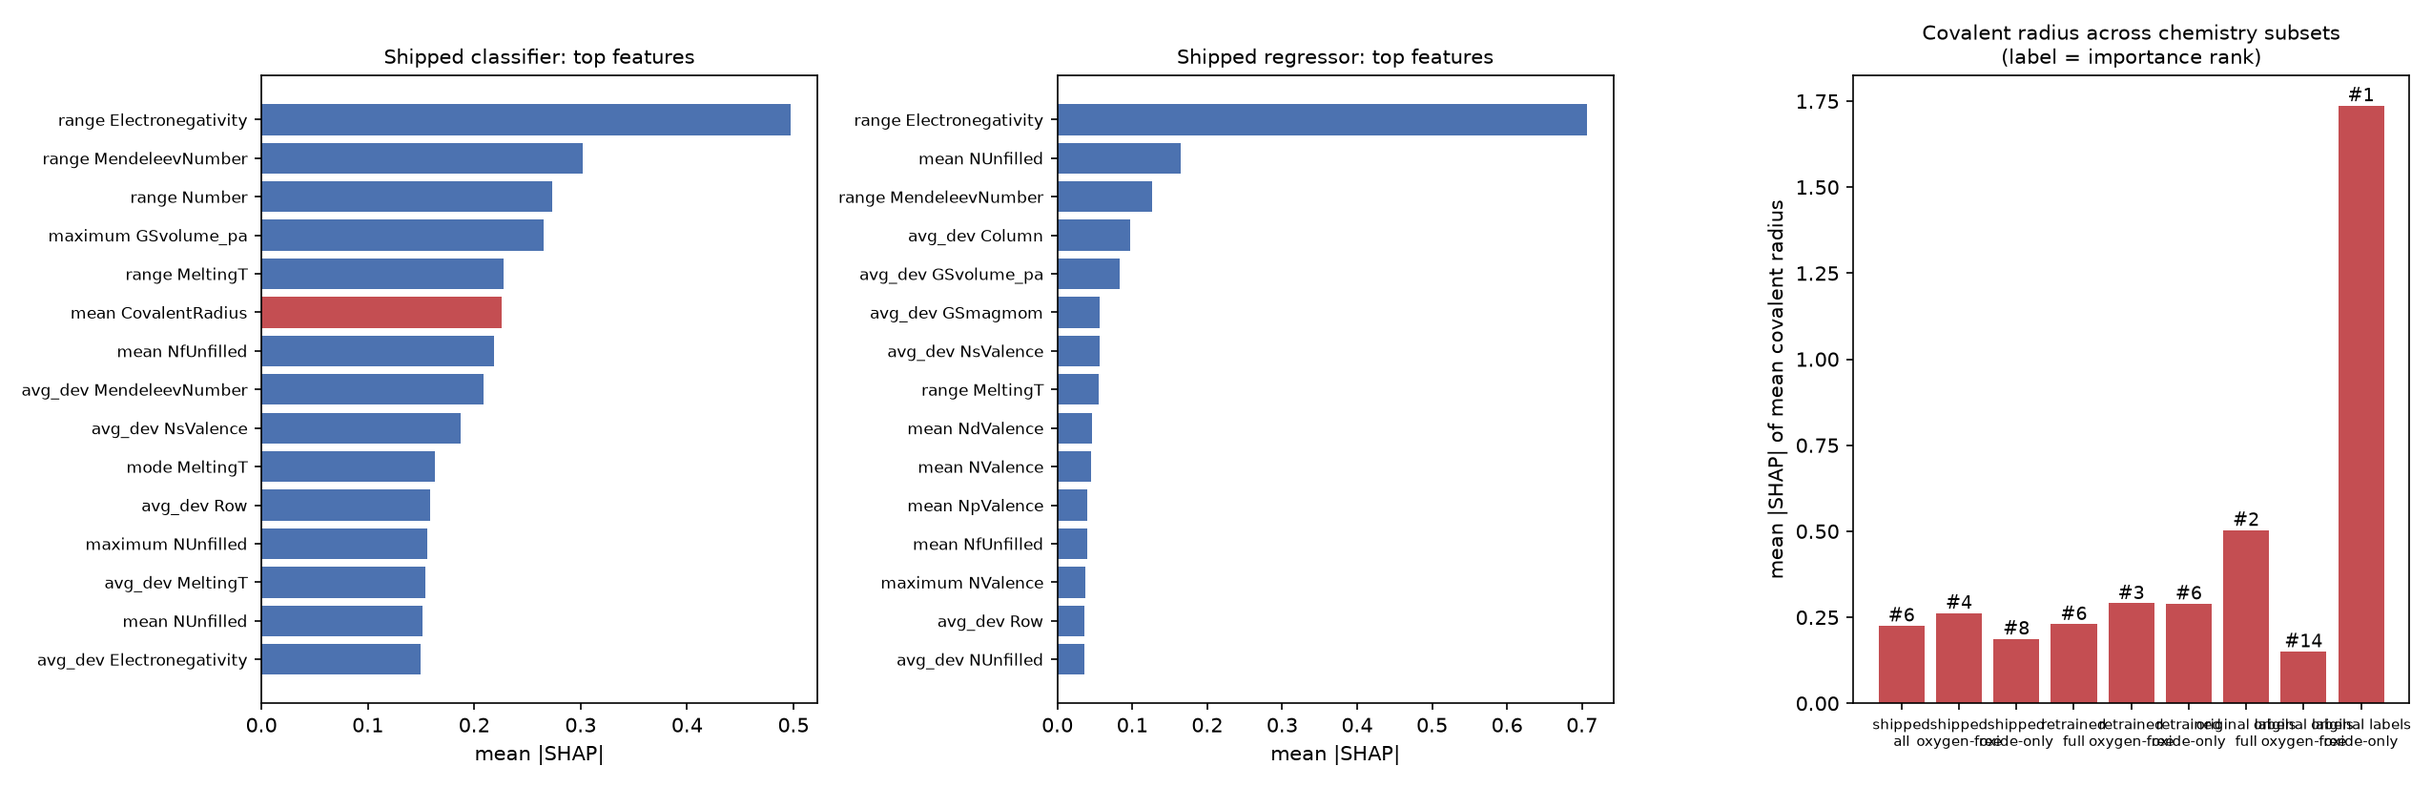
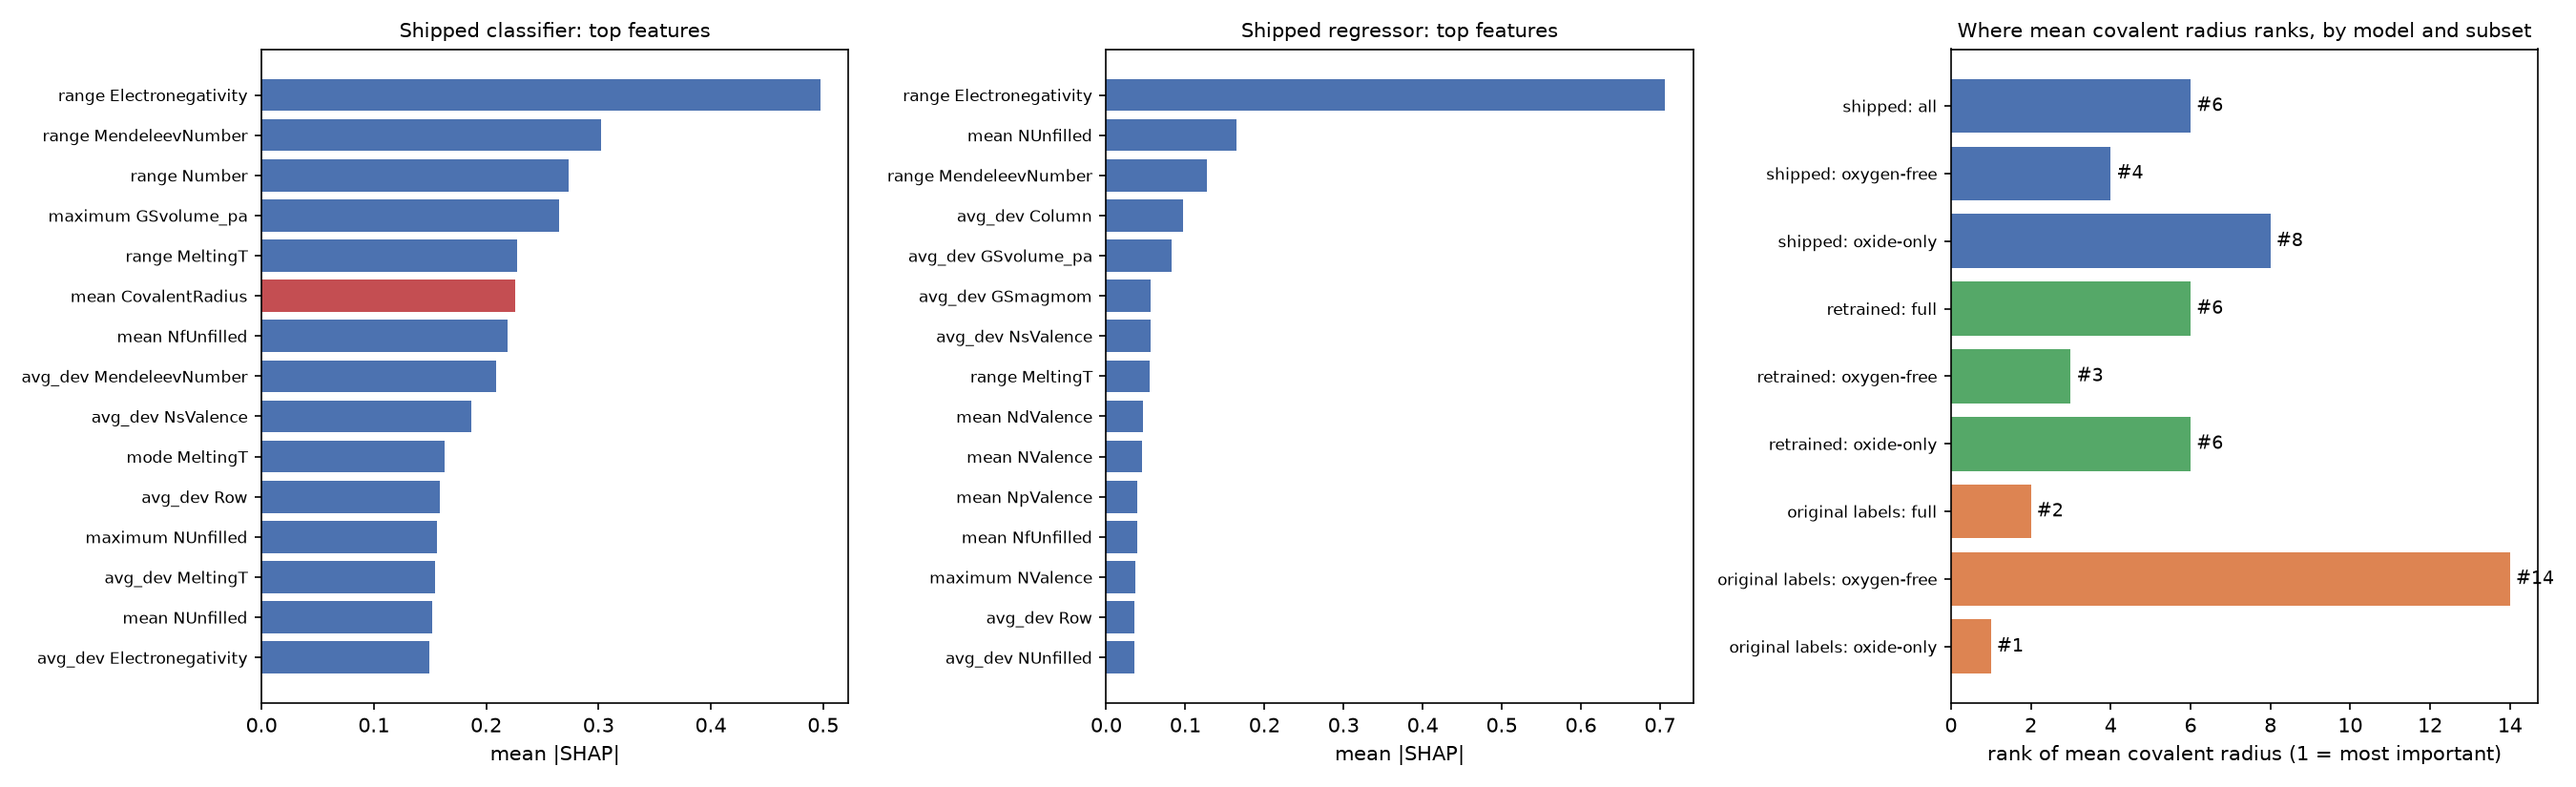
Embed SHAP figures in the report and README; carry over original GNN results
- explain_funnel figure: replace the unreadable nine-bar panel with a rank plot
  (only ranks are comparable across models) and fix a truncated axis label
- report: Figure 1 (original-study SHAP, section 1.3) and Figure 2 (funnel SHAP,
  section 7); add the original report's GNN Table II and its own reading of it
- README: funnel SHAP figure in Explainability, original-study figure in
  Reproducing the original study
- provenance now points at the final explain run; earlier explain runs are
  tagged superseded in W&B

diff --git a/path_a_classical/explain_funnel.py b/path_a_classical/explain_funnel.py
@@ -63,6 +63,7 @@ OUT_PLOT = OUTPUT_DIR / "explain_funnel.png"
 
 TARGET_FEATURE = "MagpieData mean CovalentRadius"
 TOP_N = 15
+GROUP_COLORS = {"original labels": "#dd8452", "retrained": "#55a868", "shipped": "#4c72b0"}
 
 
 def oxygen_fraction(formula: str) -> float:
@@ -127,7 +128,7 @@ def retrain_and_explain(X, y, feature_cols):
 
 
 def plot_summary(clf_stats, reg_stats, regimes):
-    fig, axes = plt.subplots(1, 3, figsize=(17, 5.5))
+    fig, axes = plt.subplots(1, 3, figsize=(18, 5.5))
 
     for ax, stats, title in [
         (axes[0], clf_stats, "Shipped classifier: top features"),
@@ -140,16 +141,18 @@ def plot_summary(clf_stats, reg_stats, regimes):
         ax.set_title(title, fontsize=10)
         ax.tick_params(axis="y", labelsize=8)
 
-    names = list(regimes)
+    # Rank (not mean |SHAP|) is compared across models: |SHAP| scales differ between
+    # models, so only the rank is meaningful across the regimes.
+    names = list(regimes)[::-1]
+    ranks = [regimes[n]["rank"] for n in names]
     ax = axes[2]
-    ax.bar(range(len(names)), [regimes[n]["mean_abs_shap"] for n in names], color="#c44e52")
-    for i, n in enumerate(names):
-        ax.annotate(f"#{regimes[n]['rank']}", (i, regimes[n]["mean_abs_shap"]),
-                    ha="center", va="bottom", fontsize=9)
-    ax.set_xticks(range(len(names)))
-    ax.set_xticklabels([n.replace(" | ", "\n") for n in names], fontsize=7)
-    ax.set_ylabel("mean |SHAP| of mean covalent radius")
-    ax.set_title("Covalent radius across chemistry subsets\n(label = importance rank)", fontsize=10)
+    ax.barh(range(len(names)), ranks, color=[GROUP_COLORS[n.split(" | ")[0]] for n in names])
+    ax.set_yticks(range(len(names)))
+    ax.set_yticklabels([n.replace(" | ", ": ") for n in names], fontsize=8)
+    for i, r in enumerate(ranks):
+        ax.annotate(f"#{r}", (r, i), xytext=(3, 0), textcoords="offset points", va="center", fontsize=9)
+    ax.set_xlabel("rank of mean covalent radius (1 = most important)")
+    ax.set_title("Where mean covalent radius ranks, by model and subset", fontsize=10)
 
     fig.tight_layout()
     fig.savefig(OUT_PLOT, dpi=150)

diff --git a/PROJECT_REPORT.md b/PROJECT_REPORT.md
@@ -43,6 +43,10 @@ The headline result reproduces closely (ROC-AUC within 0.003; test-set support w
 
 **Interpretation as reported.** SHAP on this model gave three design rules: (1) *low mean covalent radius* was the top predictor, read as smaller atoms → stiffer lattices → higher phonon frequencies, consistent with BCS theory; (2) a *high range of electronegativity* was the next strongest, read as superconductors being chemically contrasting compounds rather than simple alloys; (3) *low mean d-valence electron count* was strongly predictive, read as high d-electron counts being associated with magnetism. The reproduction agrees on the broad picture: 13 of the report's 20 Figure 1 features appear in the reproduced top 20 (13–14 across repeated runs), with range of electronegativity, mean covalent radius, mean melting temperature, mean electronegativity and mean f-orbital vacancy among the top five. How well each *rule* holds up under further testing is the subject of §7.
 
+![SHAP top-20 features of the original-methodology classifier](outputs/original_study_shap.png)
+
+*Figure 1. Mean |SHAP| of the top 20 features of the original-methodology classifier (random split, unlabeled-as-negative labels), reproduced by `reproduce_original_study.py`. The same feature families lead as in Figure 1 of the Final Report; the exact order differs slightly.*
+
 **Original future work.** The report proposed (a) screening millions of hypothetical materials in OQMD with the XGBoost model, (b) a hybrid pipeline in which XGBoost filters formulas and a GNN then analyzes the 3D structure of the shortlist, and (c) pre-training the GNN on formation energy before fine-tuning. This revision realizes (a) in spirit by screening the ~62,000-material Materials Project pool (§4.4; OQMD was not used), tests (c) partially with frozen CHGNet embeddings (§5.2), and finds no support for the GNN stage in (b) (§5).
 
 *Reproducibility notes.* A fresh rebuild from the raw CSVs featurizes four noble-gas formulas (Ar, He, HeSiO₂, Ne) that the original featurization run had dropped, giving 78,482 rows rather than 78,478; this adds four negatives to the screening pool and does not change the shortlist or any funnel metric. Models refit on this dataset use multithreaded XGBoost and are not bit-reproducible: ROC-AUC and accuracy vary in the third decimal between runs, and lower-ranked SHAP positions can swap between near-tied features. Quantities quoted from such refits below carry that tolerance; the shipped funnel models and their outputs are reproduced exactly.
@@ -127,6 +131,8 @@ This path does not appear in the deployed pipeline. It is summarized here becaus
 ### 5.1 What was built
 A Crystal Graph Convolutional Neural Network (CGCNN; Xie & Grossman, *Phys. Rev. Lett.* 2018), where atoms are nodes (one-hot atomic number) and bonds are edges (Gaussian-expanded distance, 5 Å cutoff), trained for binary superconductor classification, interpreted post-hoc with GNNExplainer.
 
+**As originally reported.** Table II of the Final Report gave ROC-AUC 0.9412 and accuracy 0.94, with non-superconductor precision/recall 0.99/0.95 but superconductor precision of only 0.04 at recall 0.86 (F1 0.08). The report itself read this as a useful pattern-recognition tool but an inefficient screening tool, and read a GNNExplainer run on YBCO — highest importance on Cu and O, almost none on Y and Ba — as validation of Cu–O-plane physics. The subsections below test both readings.
+
 ### 5.2 What was wrong, and what it revealed once fixed
 
 **The reported result was not reproducible.** The GNNExplainer script imported the wrong model class entirely (a never-trained `CGCNN`, when the actual checkpoint was a different, four-layer `ImprovedCGCNN` architecture) and called it with an incompatible signature. GNNExplainer had never successfully run; the "Cu-O plane" figure in the original report was labeled "(Simulated)".
@@ -161,7 +167,7 @@ The composition funnel in this report is a legitimate but considerably shallower
 
 ## 7. Explainability: What Held Up and What Didn't
 
-**SHAP (Path A).** Two different classifiers have been explained, and they do not agree, so every result below is labeled by the model it came from. The *original-methodology* classifier uses unlabeled-as-negative labels (§1.3); the *shipped* funnel classifier uses confirmed labels (§3). Both are examined by `path_a_classical/explain_funnel.py` (W&B run `58lszl8z`), which retrains on the original labels for the first group of rows below and explains the shipped models directly for the second.
+**SHAP (Path A).** Two different classifiers have been explained, and they do not agree, so every result below is labeled by the model it came from. The *original-methodology* classifier uses unlabeled-as-negative labels (§1.3); the *shipped* funnel classifier uses confirmed labels (§3). Both are examined by `path_a_classical/explain_funnel.py` (W&B run `3ykf1x5d`), which retrains on the original labels for the first group of rows below and explains the shipped models directly for the second.
 
 The original report's top design rule was "low mean covalent radius predicts superconductivity, via BCS phonon stiffness". Testing whether that feature is oxide-scoped (oxygen has a very small covalent radius, and cuprates dominate the positives):
 
@@ -177,6 +183,10 @@ The original report's top design rule was "low mean covalent radius predicts sup
 | retrained on oxide-only | 6 | +0.88 |
 
 (Every row is reproduced by `explain_funnel.py`; ranges reflect run-to-run variation of the refit models (§1.3), while the shipped-model rows are exactly reproducible. The "original labels" rows and the "retrained" rows fit a fresh classifier on each subset and explain its held-out split; the "shipped" rows slice the SHAP values of the deployed classifier without retraining.)
+
+![SHAP explanations of the shipped screening funnel](outputs/explain_funnel.png)
+
+*Figure 2. Left and centre: mean |SHAP| of the top 15 features of the shipped classifier and regressor, with mean covalent radius highlighted in the classifier. Right: the rank of mean covalent radius by model and chemistry subset (blue: shipped classifier, SHAP sliced by subset; green: classifiers retrained on each subset of the confirmed-label data; orange: classifiers retrained on the original labels). Only ranks are compared across models, because |SHAP| scales differ between them.*
 
 - **The oxide-scoping finding does not carry over to the shipped model.** With the original labels the feature collapsed from #2 to #13–14 without oxygen. On the shipped model it is #6 overall and, if anything, *more* important outside oxides (#4 and #3) than inside them (#8 and #6). The earlier result was a property of that label design (negatives = generic stable materials), not a general property of the feature.
 - **The sign is consistently opposite to the original claim.** In every row above, a *higher* mean covalent radius pushes toward "superconductor" (positive correlation), not lower as the BCS-stiffness narrative requires. The narrative is unsupported by either model. Caveat: a Pearson correlation is a crude summary of a possibly non-monotonic SHAP dependence; the feature also correlates −0.66 with oxygen fraction, while oxygen fraction alone separates the classes only weakly (ROC-AUC 0.59).

diff --git a/README.md b/README.md
@@ -100,6 +100,10 @@ rule" (low mean covalent radius => superconductor):
 python path_a_classical/explain_funnel.py
 ```
 
+![SHAP explanations of the shipped funnel: top features of the classifier and regressor, and where mean covalent radius ranks by model and subset](outputs/explain_funnel.png)
+
+*Left/centre: top SHAP features of the shipped classifier and regressor. Right: rank of mean covalent radius under the original labels (orange), retrained on confirmed labels (green) and in the shipped model (blue).*
+
 Outputs: `outputs/explain_funnel.json`, `explain_funnel_{classifier,regressor}_shap.csv`,
 `explain_funnel.png`. Findings on the shipped model:
 
@@ -130,6 +134,10 @@ figure next to the Final Report's numbers (`outputs/original_study.json`):
 |---|---|---|
 | ROC-AUC | 0.9886 | 0.991 |
 | Accuracy | 0.9525 | 0.964 |
+
+![SHAP top-20 features of the original-methodology classifier](outputs/original_study_shap.png)
+
+*SHAP importance in the original-methodology model (compare Figure 1 of the Final Report).*
 
 It measures a different question from the funnel (random-split discrimination of
 literature superconductors from arbitrary stable materials, not generalization to
